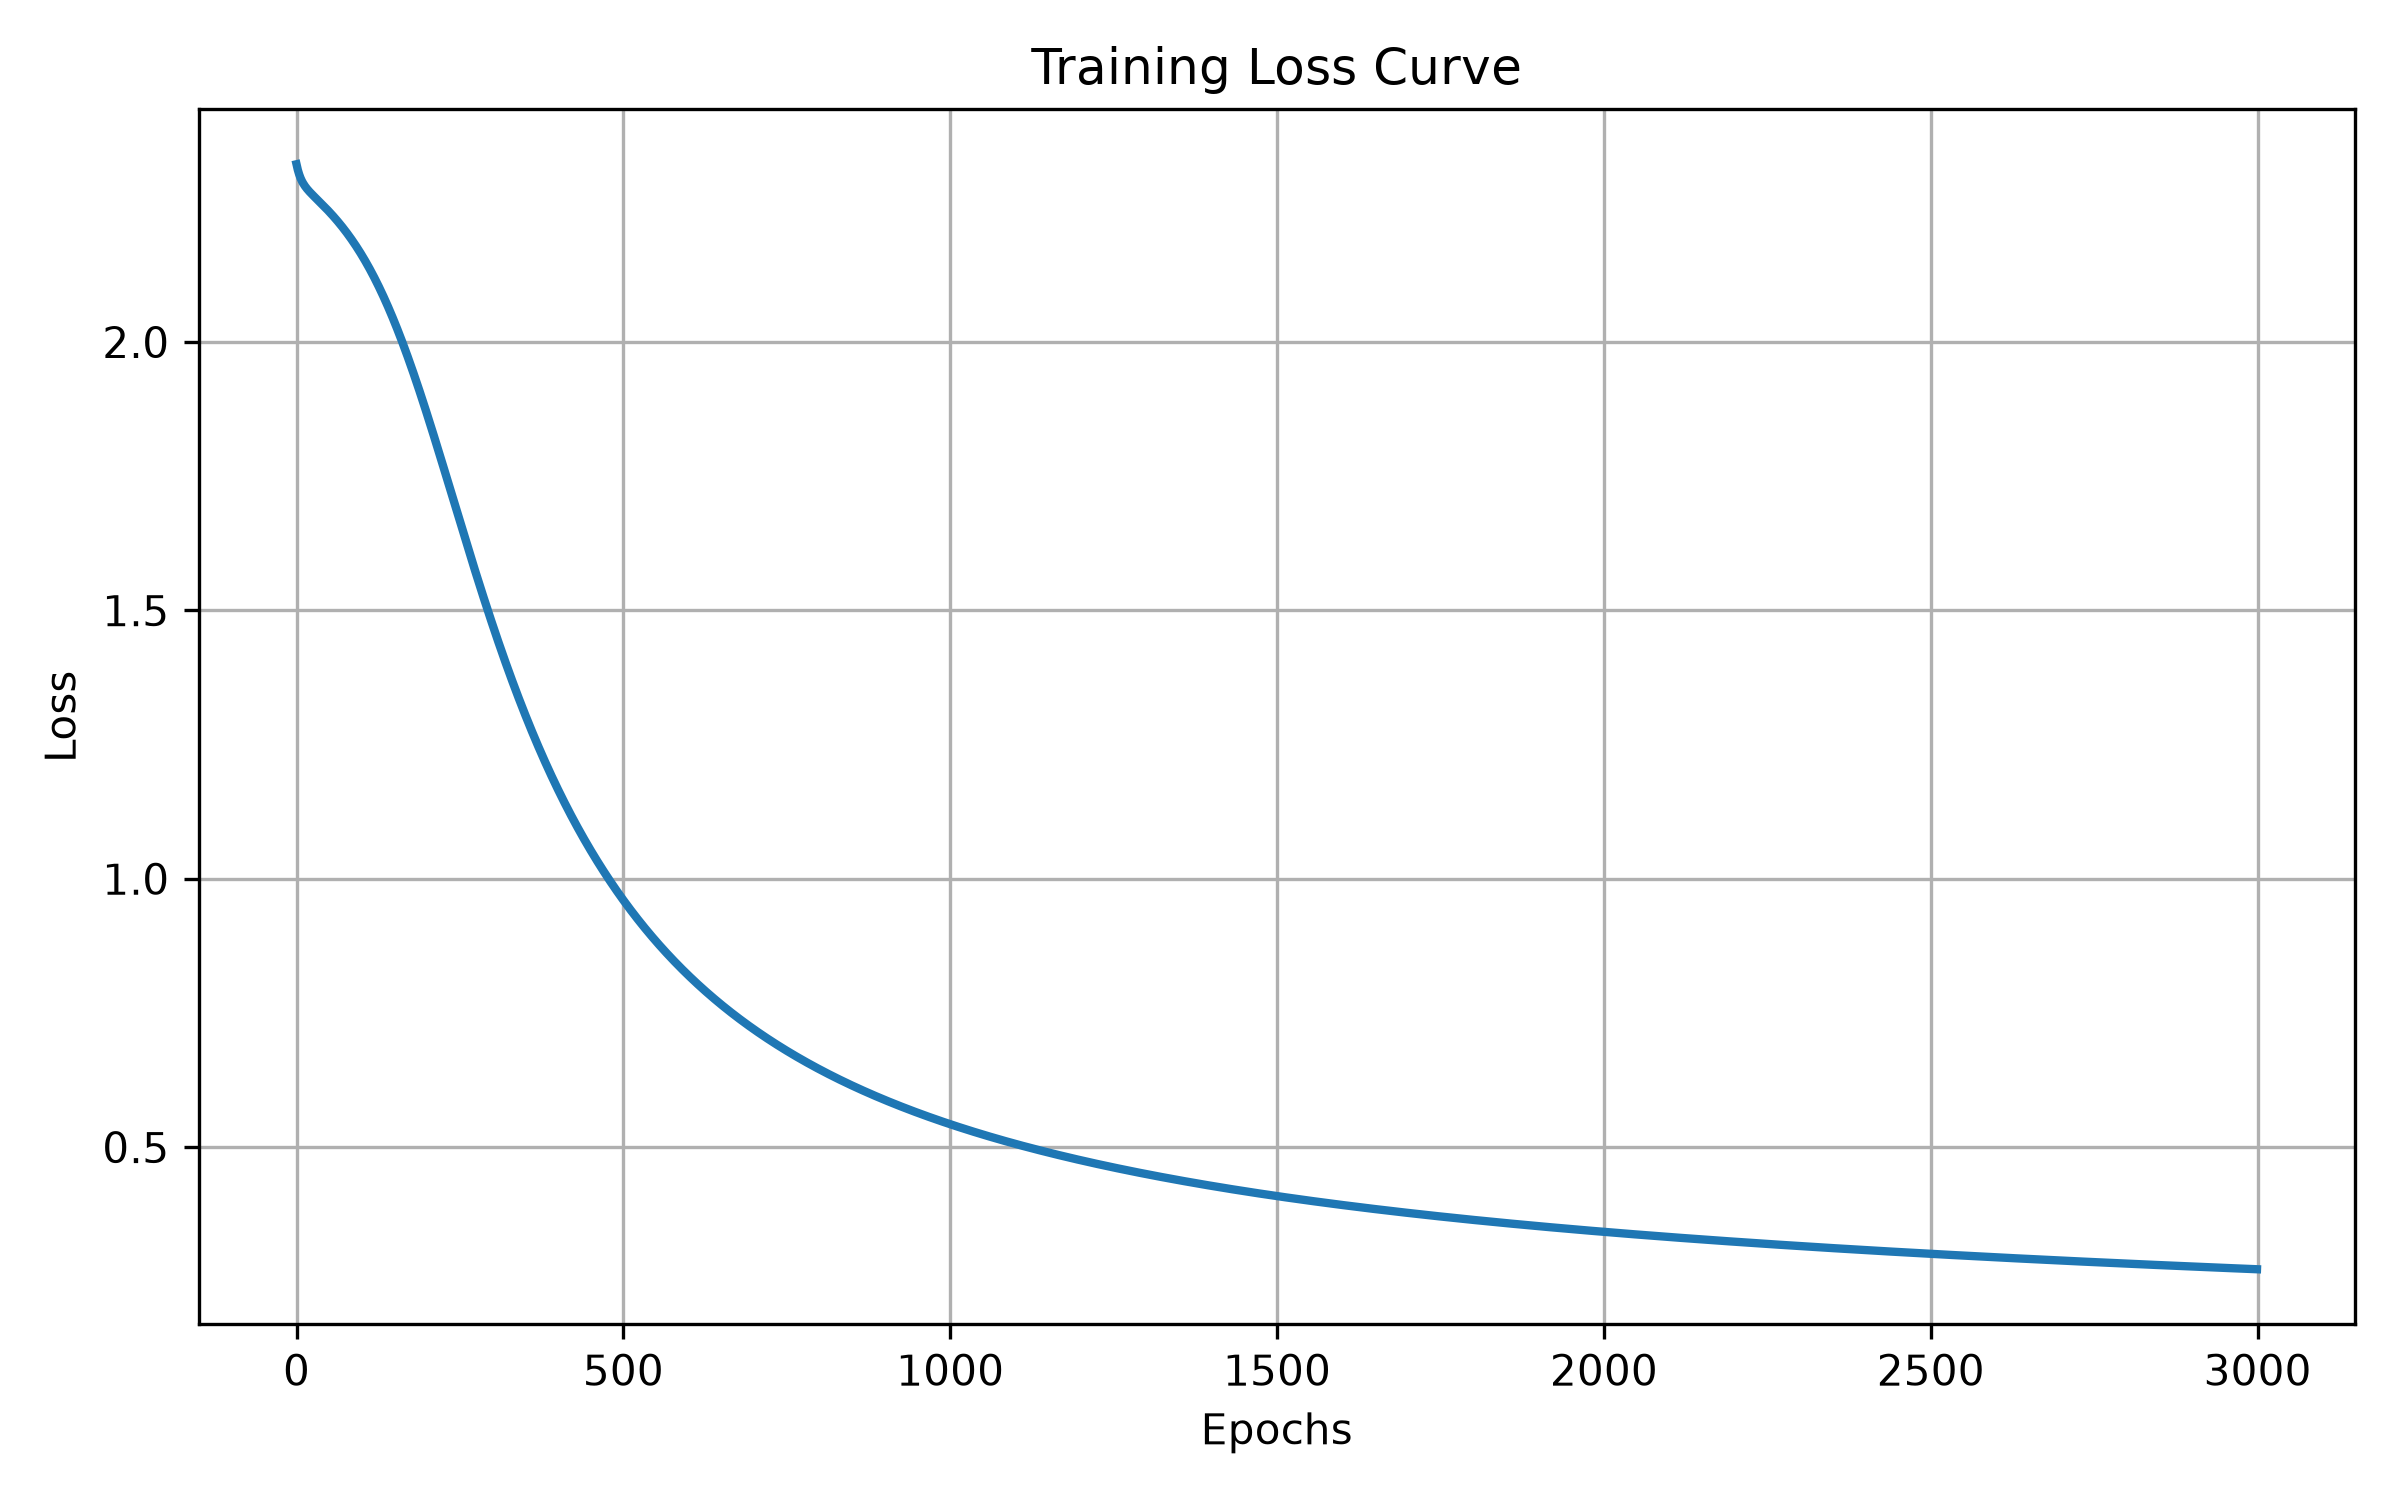
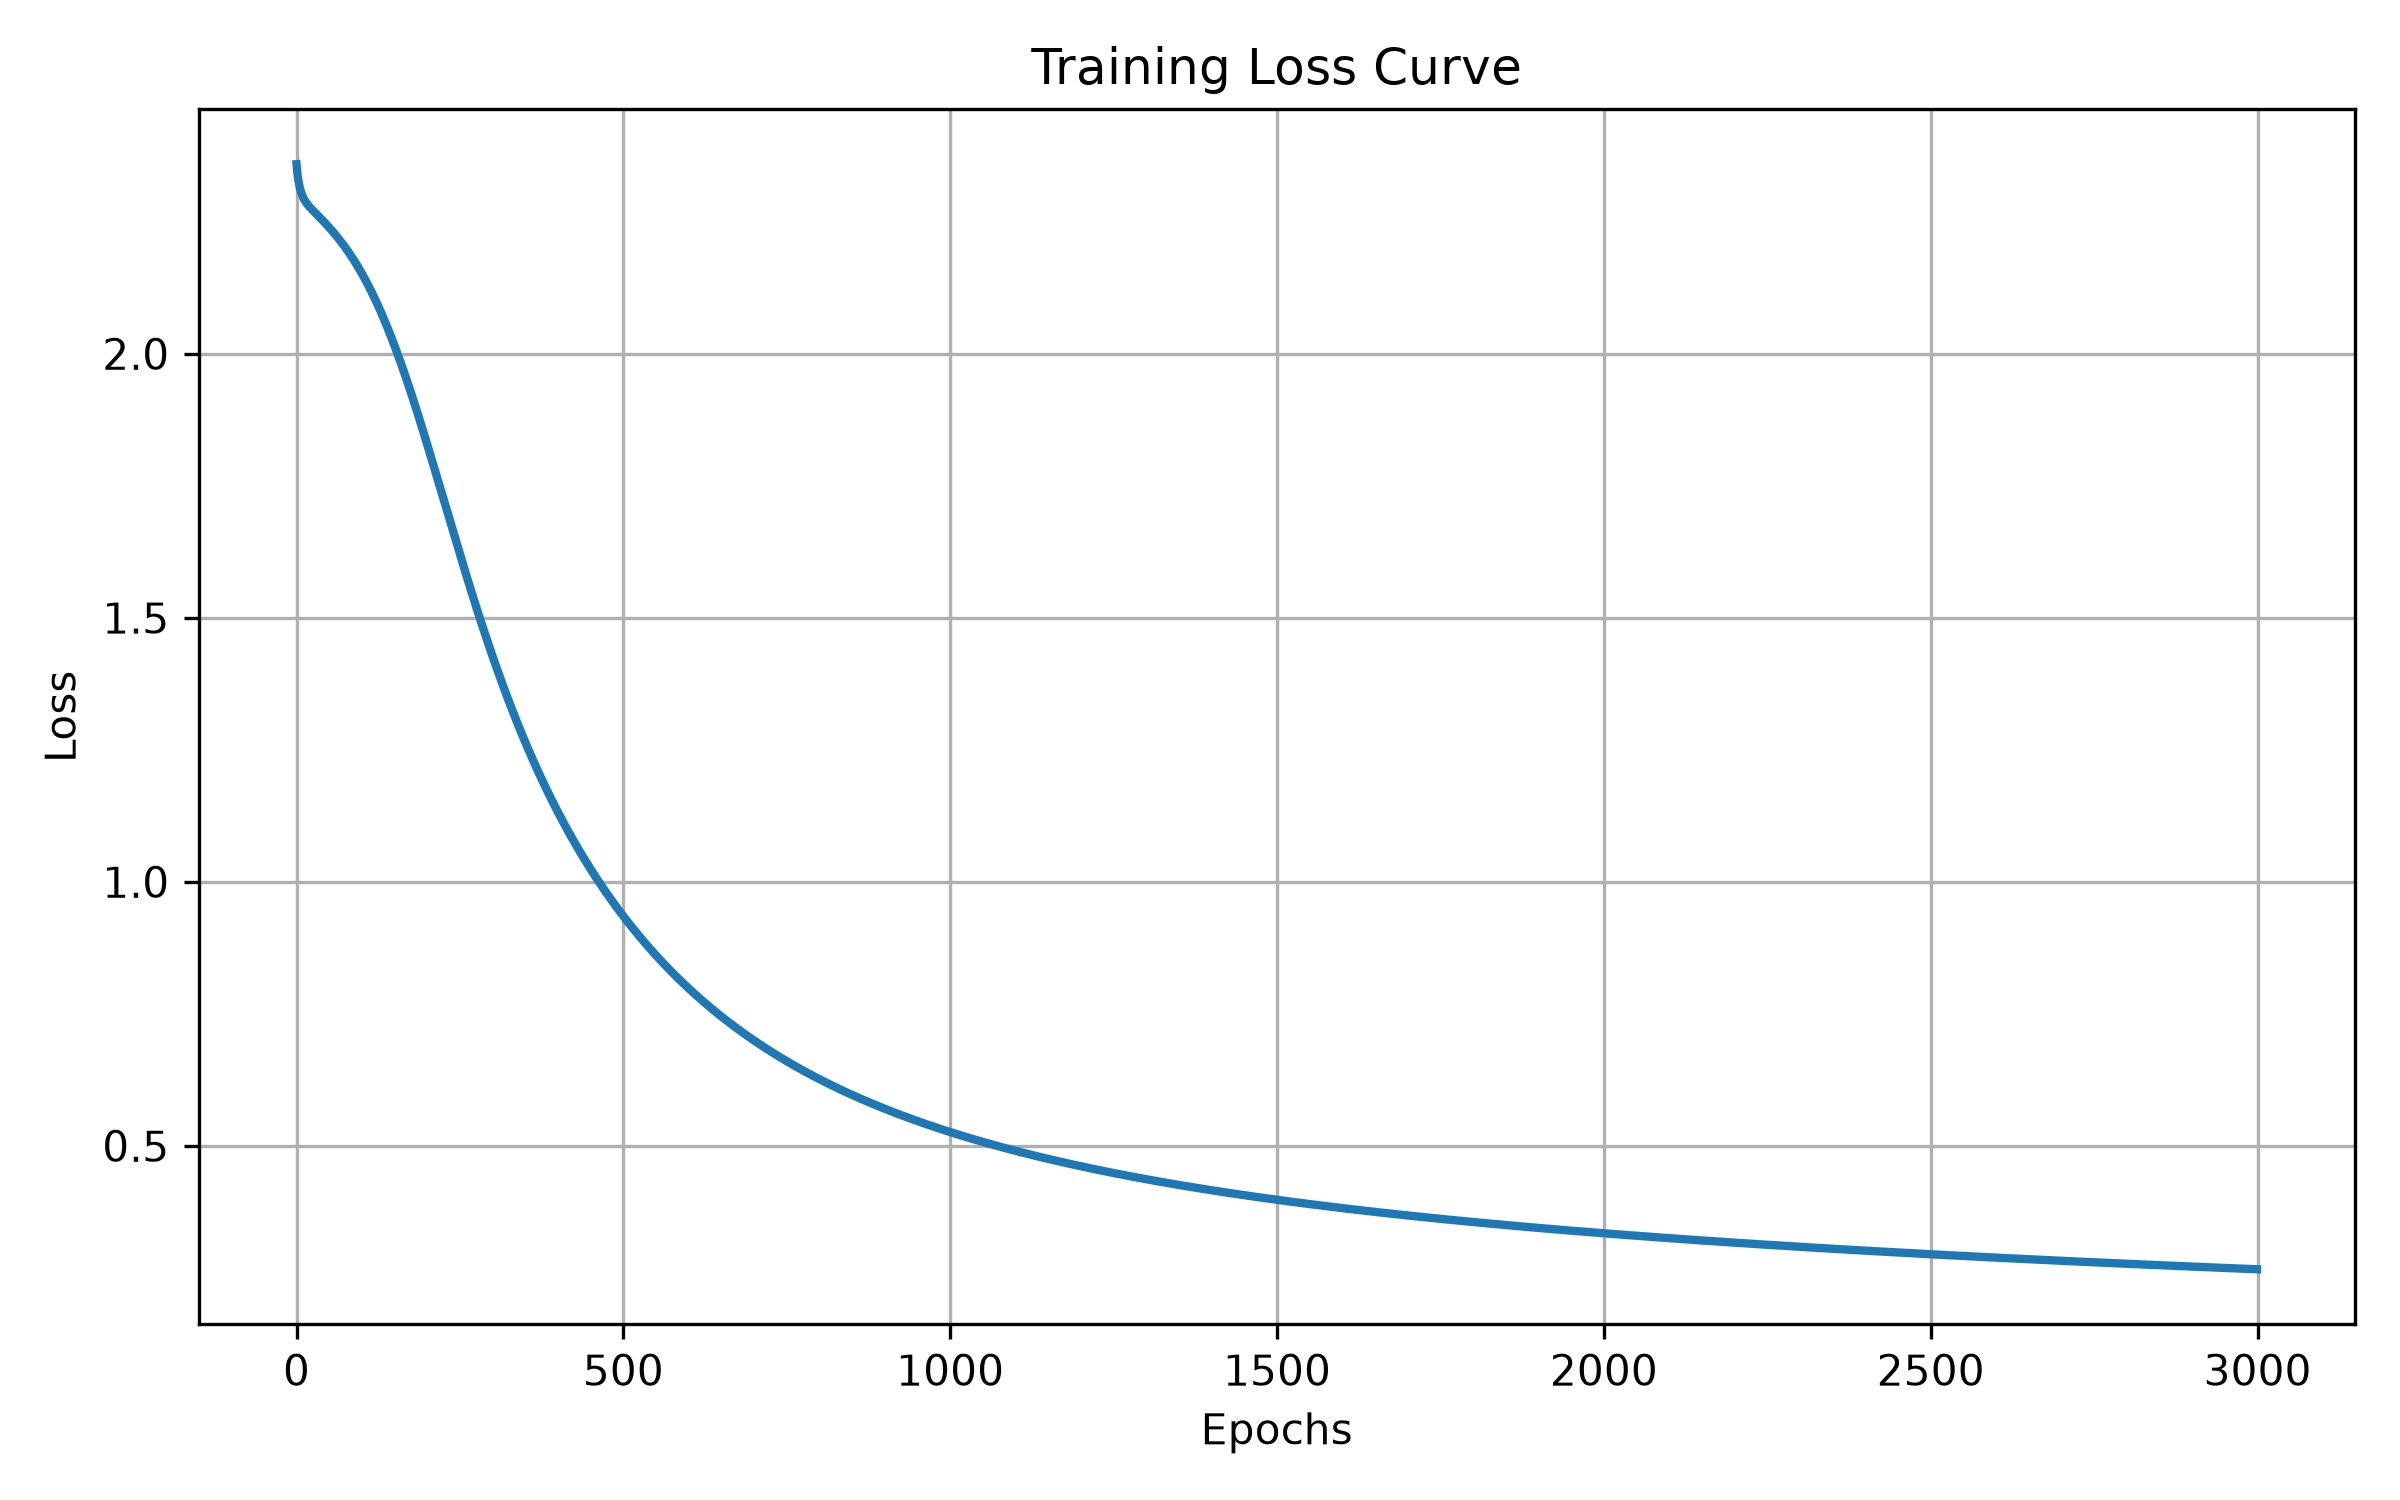
feat: add missing value check and label distribution analysis

diff --git a/src/data/eda.py b/src/data/eda.py
@@ -1,6 +1,7 @@
 from pathlib import Path
 import pandas as pd
 import torch
+import matplotlib.pyplot as plt
 
 class DataAnalyzer:
     def __init__(self,x:torch.Tensor,y:torch.Tensor):
@@ -12,7 +13,7 @@ class DataAnalyzer:
         print("=" * 30)
         print("Dataset Information")
         print("=" * 30)
-    
+
         print(f"Number of Samples : {df.shape[0]}")
         print(f"Number of Features: {df.shape[1]}")
 
@@ -21,3 +22,26 @@ class DataAnalyzer:
 
         print("\nFirst Five Rows")
         print(df.head())
+
+    def missing_values(self) -> None:
+        df = pd.DataFrame(self.x.numpy())
+        missing =  df.isnull().sum().sum()
+        print("*"*20)
+        print("Missing Values Check!")
+        print("*"*20)
+        print("Total Missing Values: {missing}")
+
+        if missing == 0:
+            print("Dataset is Clean")
+
+    def label_distribution(self,save_path="figures/label_distribution.png") -> None:
+        labels = self.y.numpy()
+        plt.figure(figsize=(8,5))
+        plt.hist(labels, bins=10, edgecolor="black", linewidth=1, histtype="stepfilled")
+        plt.title("Distribution of Labels")
+        plt.xlabel("Digit")
+        plt.ylabel("Count")
+        Path(save_path).parent.mkdir(parents=True, exist_ok=True)
+        plt.savefig(save_path,dpi=300)
+        plt.show()
+        print(f"Saved -> {save_path}")

diff --git a/train.py b/train.py
@@ -14,6 +14,8 @@ def main() -> None:
     x,y = loader.load()
     analyzer = DataAnalyzer(x, y)
     analyzer.dataset_info()
+    analyzer.missing_values()
+    analyzer.label_distribution()
     print("X Shape:", x.shape)
     print("Y Shape:", y.shape)
     x_train, x_val, x_test, y_train, y_val, y_test = DataPreprocessor.split_data(x, y)
